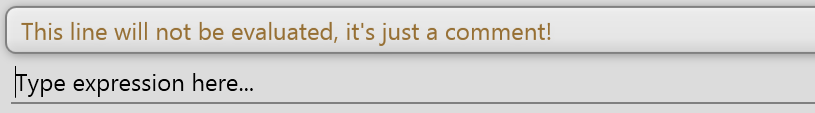
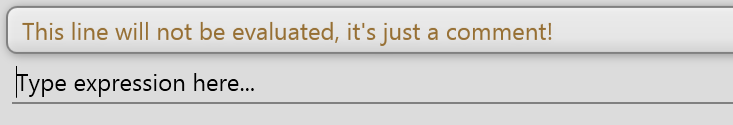
Some HowTo images have been changed.

Changed region(s): [[0.0, 0.0265, 1.0, 0.5044], [0.0, 0.5841, 1.0, 0.8761], [0.0, 0.9027, 1.0, 0.9292]]

diff --git a/PowerCalc/Views/MainWindow.xaml b/PowerCalc/Views/MainWindow.xaml
@@ -26,7 +26,6 @@
         <converters:WorksheetItemResultConverter x:Key="WorksheetItemResultConverter" />
         <converters:WorksheetItemResultToForeground x:Key="WorksheetItemResultToForeground" />
         <converters:CopyToClipboardParameterConverter x:Key="CopyToClipboardParameterConverter" />
-        <converters:IsCurrentThemeConverter x:Key="IsCurrentThemeConverter" />
 
         <Style x:Key="RoundedButton" TargetType="{x:Type Button}">
             <Setter Property="FontFamily" Value="{StaticResource IconicFont}" />
@@ -129,7 +128,7 @@
                 <MenuItem Header="_Color Scheme" ItemsSource="{Binding ColorSchemes}">
                     <MenuItem.ItemContainerStyle>
                         <Style TargetType="MenuItem">
-                            <Setter Property="IsChecked" Value="{Binding Name, Mode=OneWay, Converter={StaticResource IsCurrentThemeConverter}}" />
+                            <Setter Property="IsChecked" Value="{Binding IsCurrent, Mode=OneWay}" />
                             <Setter Property="Header" Value="{Binding DisplayName}"/>
                             <Setter Property="Command" Value="{Binding ApplySchemeCommand}" />
                         </Style>

diff --git a/PowerCalc/Resources/Documents/HowTo/WorksheetDefineVariable.xaml b/PowerCalc/Resources/Documents/HowTo/WorksheetDefineVariable.xaml
@@ -44,6 +44,10 @@
         </Span>
     </Paragraph>
     <Paragraph>
-        <controls:ThemedImage Stretch="None" Source="/Resources/Documents/HowTo/Images/define_variable.Grayscale.png" />
+        <controls:ThemedImage Stretch="None" Source="/Resources/Documents/HowTo/Images/define_variable.Blue.png" RenderOptions.BitmapScalingMode="HighQuality">
+            <controls:ThemedImage.LayoutTransform>
+                <ScaleTransform ScaleX="0.6" ScaleY="0.6" />
+            </controls:ThemedImage.LayoutTransform>
+        </controls:ThemedImage>
     </Paragraph>
 </FlowDocument>

diff --git a/PowerCalc/Resources/Documents/HowTo/WorksheetAddComments.xaml b/PowerCalc/Resources/Documents/HowTo/WorksheetAddComments.xaml
@@ -32,6 +32,10 @@
     </Paragraph>
     
     <Paragraph>
-        <controls:ThemedImage Stretch="None" Source="/Resources/Documents/HowTo/Images/add_comments.Blue.png" />
+        <controls:ThemedImage Stretch="None" Source="/Resources/Documents/HowTo/Images/add_comments.Blue.png" RenderOptions.BitmapScalingMode="HighQuality">
+            <controls:ThemedImage.LayoutTransform>
+                <ScaleTransform ScaleX="0.6" ScaleY="0.6" />
+            </controls:ThemedImage.LayoutTransform>
+        </controls:ThemedImage>
     </Paragraph>
 </FlowDocument>

diff --git a/PowerCalc/ViewModels/MainWindowViewModel.cs b/PowerCalc/ViewModels/MainWindowViewModel.cs
@@ -128,15 +128,28 @@ namespace TAlex.PowerCalc.ViewModels
 
         public class ColorScheme
         {
+            private IThemeManager _themeManager;
+
+
             public string Name { get; private set; }
 
             public string DisplayName { get; private set; }
+
+            public bool IsCurrent
+            {
+                get
+                {
+                    return Name == _themeManager.CurrentTheme;
+                }
+            }
 
             public ICommand ApplySchemeCommand { get; private set; }
 
 
             public ColorScheme(IThemeManager themeManager, string name, string displayName)
             {
+                _themeManager = themeManager;
+
                 Name = name;
                 DisplayName = displayName;
                 ApplySchemeCommand = new RelayCommand(() => { themeManager.ApplyTheme(name); });

diff --git a/PowerCalc/Controls/ThemedImage.cs b/PowerCalc/Controls/ThemedImage.cs
@@ -44,7 +44,6 @@ namespace TAlex.PowerCalc.Controls
         protected override void OnRender(DrawingContext dc)
         {
             ImageSource source = Source;
-            Size size = RenderSize;
 
             if (source == null)
             {
@@ -60,14 +59,13 @@ namespace TAlex.PowerCalc.Controls
                 {
                     BitmapImage bi = new BitmapImage(newUri);
                     source = bi;
-                    size = new Size(bi.Width / 0.75, bi.Height / 0.75);
                 }
                 catch (IOException)
                 {
                 }
                 
             }
-            dc.DrawImage(source, new Rect(new Point(), size));
+            dc.DrawImage(source, new Rect(new Point(), RenderSize));
         }
 
         #endregion

diff --git a/PowerCalc/Views/MainWindow.xaml.cs b/PowerCalc/Views/MainWindow.xaml.cs
@@ -24,7 +24,6 @@ using TAlex.PowerCalc.ViewModels.Plot2D;
 using TAlex.WPF3DToolkit;
 using TAlex.WPF3DToolkit.Surfaces;
 using TAlex.PowerCalc.ViewModels.Worksheet;
-using TAlex.WPF.Theming;
 
 
 namespace TAlex.PowerCalc.Views
